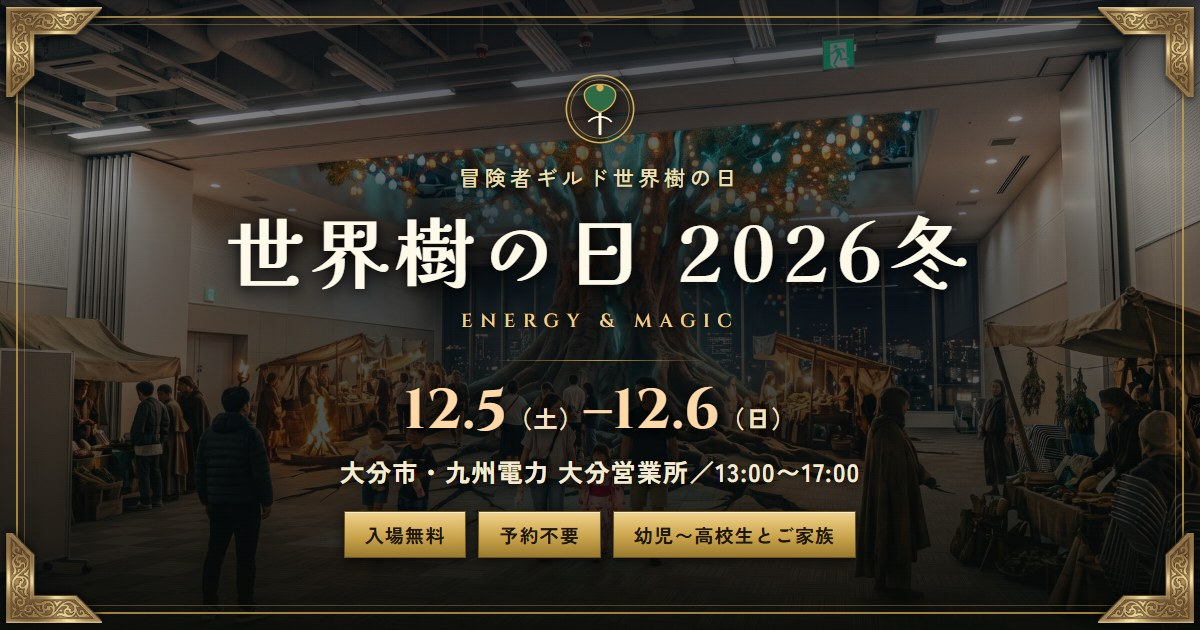
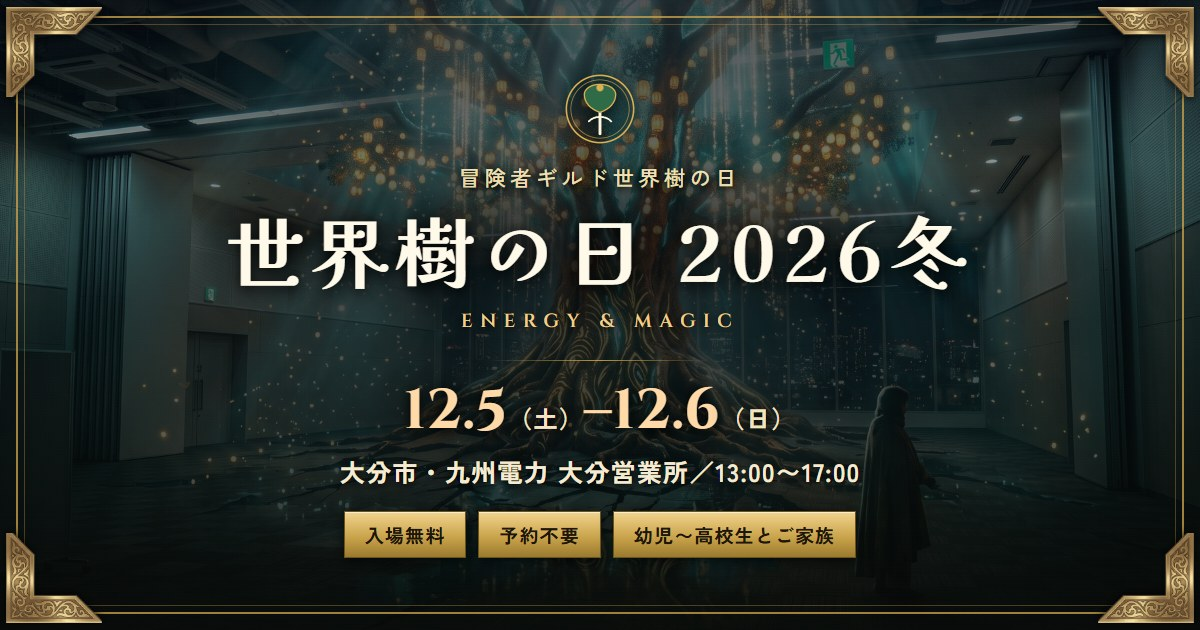
キービジュアルをゲームのキーアート級に引き上げ
記録写真では地味だったため、フォトリアルなAAAゲームのキーアート
（FF系）の方向へ。発光する紋様、体積光、舞う光の粒、割れた床への
映り込み、スケールを示すマントのシルエット。会場が実在のホールである
手がかり（天井ダクト・非常口サイン・ガラス壁の夜景）は維持。

diff --git a/event.html b/event.html
@@ -133,7 +133,7 @@
 
 <div class="top">
   <img class="bg" src="assets/img/hero.jpg" width="1800" height="1005" fetchpriority="high"
-       alt="ホールの床を突き破って生えた巨大な樹。枝いっぱいのランタンと青緑の光、まわりに天幕の店が並び、普段着の家族とマント姿の人が行き交っている">
+       alt="ホールの床を突き破って天井まで伸びる巨大な樹。根と幹に光る紋様が走り、黄金のランタンと光の粒が舞う。手前にマントを羽織った人物が小さく立っている">
   <div class="embers" id="embers" aria-hidden="true"></div>
   <div class="crestwrap">
     <svg class="crest" viewBox="0 0 66 66" aria-hidden="true">

diff --git a/index.html b/index.html
@@ -85,7 +85,7 @@
 
 <div class="top">
   <img class="bg" src="assets/img/hero.jpg" width="1800" height="1005" fetchpriority="high"
-       alt="ホールの床を突き破って生えた巨大な樹。枝いっぱいのランタンと青緑の光、まわりに天幕の店が並び、普段着の家族とマント姿の人が行き交っている">
+       alt="ホールの床を突き破って天井まで伸びる巨大な樹。根と幹に光る紋様が走り、黄金のランタンと光の粒が舞う。手前にマントを羽織った人物が小さく立っている">
   <div class="embers" id="embers" aria-hidden="true"></div>
   <div class="crestwrap">
     <svg class="crest" viewBox="0 0 66 66" aria-hidden="true">
